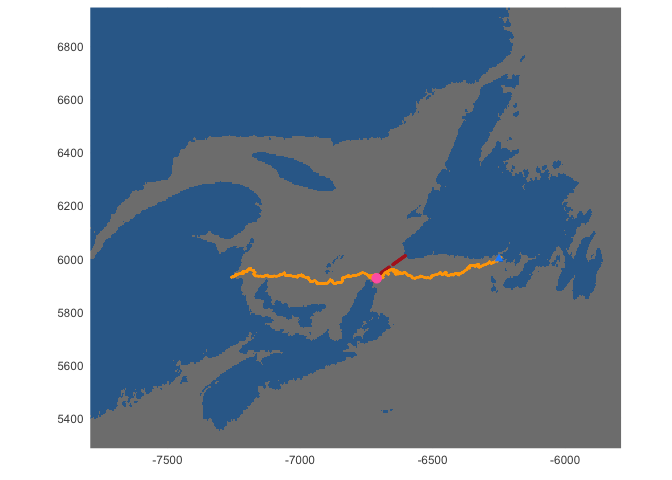
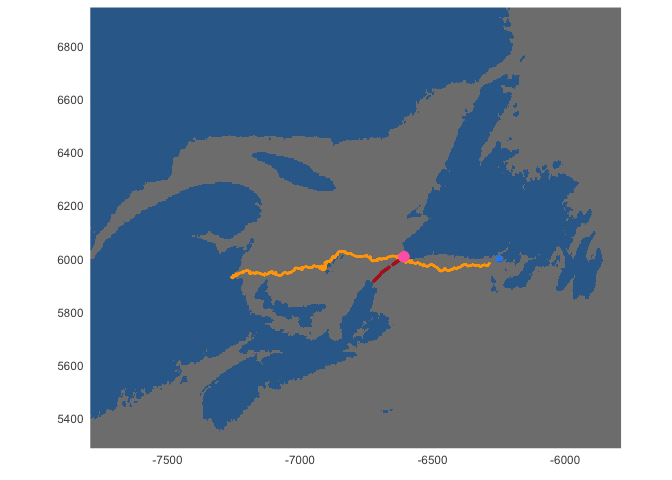
update readme w calc_pdrf

Changed region(s): [[0.3438, 0.5, 0.75, 0.5938], [0.5, 0.5, 0.5312, 0.5312]]

diff --git a/README.md b/README.md
@@ -22,7 +22,7 @@ function is used to ensure the tracks avoid land. The package can also
 be used to simulate detections of acoustically-tagged fish by acoustic
 receivers at user-defined locations.
 
-## Installation
+# Installation
 
 You can install simfish from
 [GitHub](https://github.com/ianjonsen/simfish) with:
@@ -32,7 +32,7 @@ You can install simfish from
 remotes::install_github("ianjonsen/simfish")
 ```
 
-## Example 1 - simulate a fish track in a featureless environment
+# Example 1 - simulate a fish track in a featureless environment
 
 ``` r
 require(simfish, quietly = TRUE)
@@ -68,10 +68,10 @@ plot(out)
 
 <img src="man/figures/README-ex1 plot simulated track-1.png" width="100%" />
 
-## Example 2 - simulate fish tracks in a semi-realistic environment
+# Example 2 - simulate fish tracks in a semi-realistic environment
 
 ``` r
-require(stars, quietly = TRUE)
+require(sf, quietly = TRUE)
 ```
 
 ## Create an environment to simulate fish movements
@@ -103,7 +103,7 @@ my.par <- sim_par(
   fl = 0.15, # fish fork length in m
   rho = 0.85, # angular dispersion param for move directions (range 0 - 1)
   bl = 2, # move speed (body-lengths per s)
-  beta = c(-2, -2), # potential function params; must be -ve to keep off land;
+  beta = c(-20, -20), # potential function params; must be -ve to keep off land;
   # larger -ve numbers will cause the track to jump (unrealistically) big distances when encountering land,
   # possibly crossing narrow land masses
   buffer = 0.5
@@ -143,7 +143,9 @@ x$recLocs <- recLocs
 ## simulate detections of a V13 acoustic tag
 ##   parameters (intercept, slope) from a logistic regression of distance on 
 ##   detection rate
-my.par$pdrf <- c(5, -0.01) 
+## use calc_pdrf to calculate slope for 50% detection rate at 500 m with an
+##  intercept of 5
+my.par$pdrf <- calc_pdrf(pdet = 0.5, dist = 500, int = 5)
 out <- out %>%
   sim_detect(data = x)
 ```
